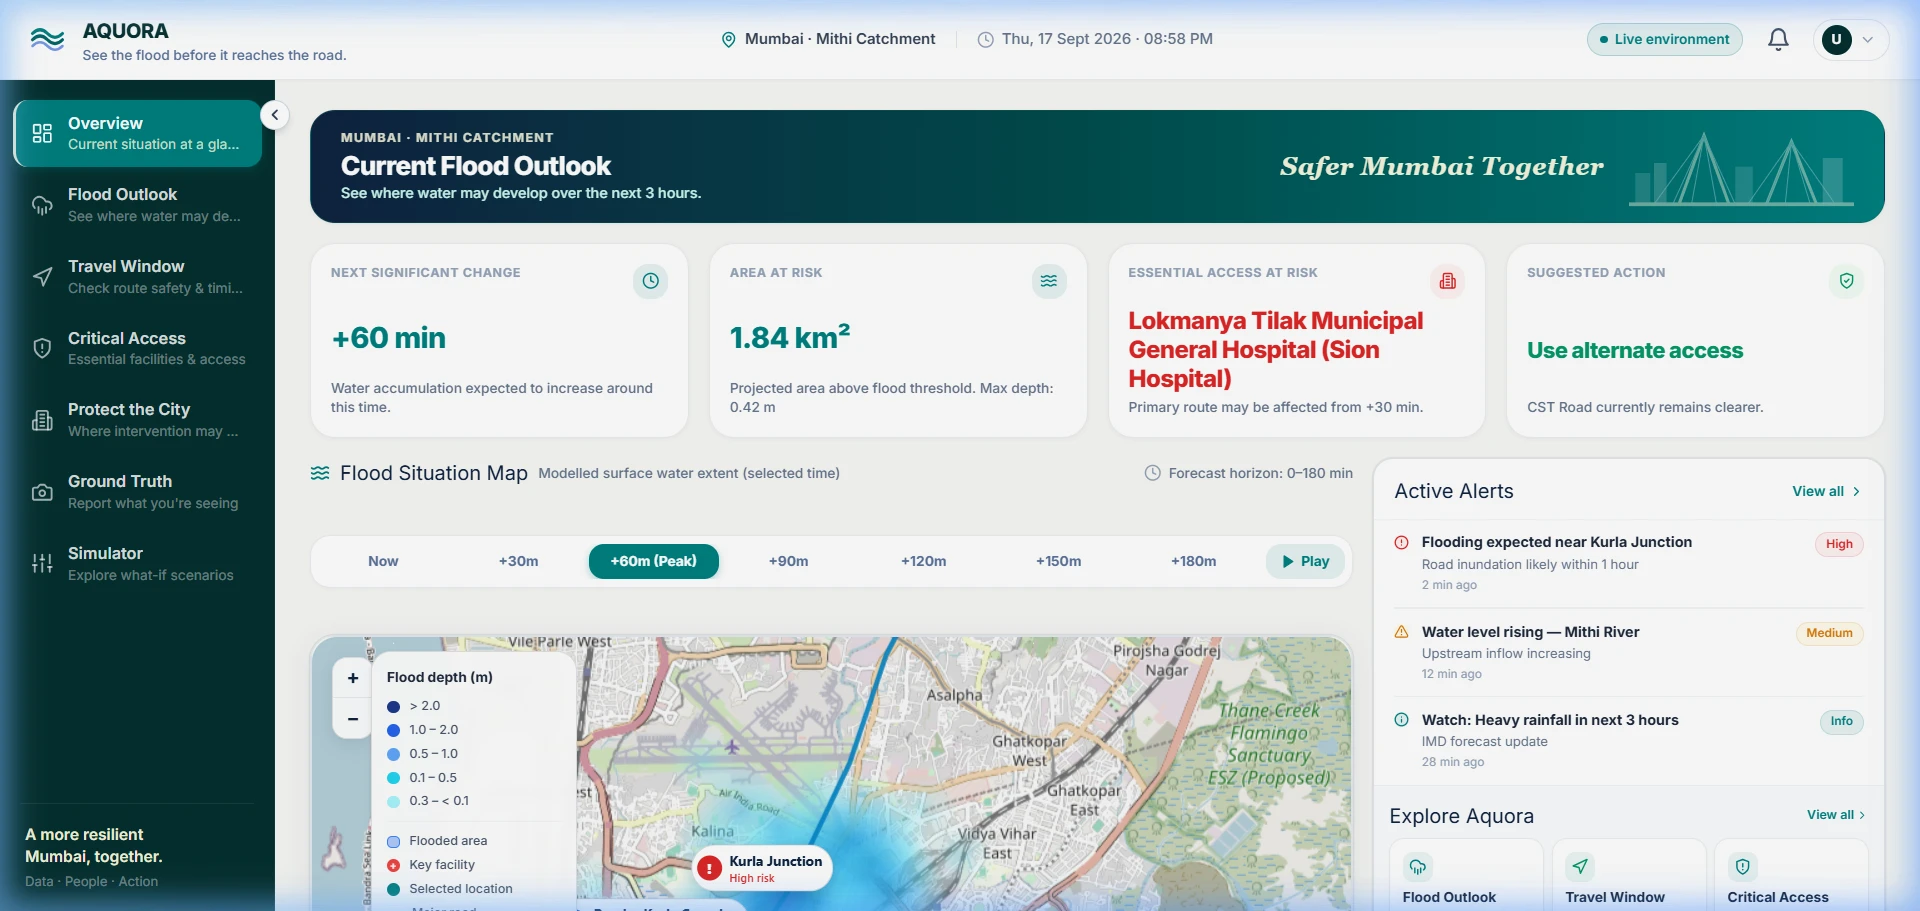
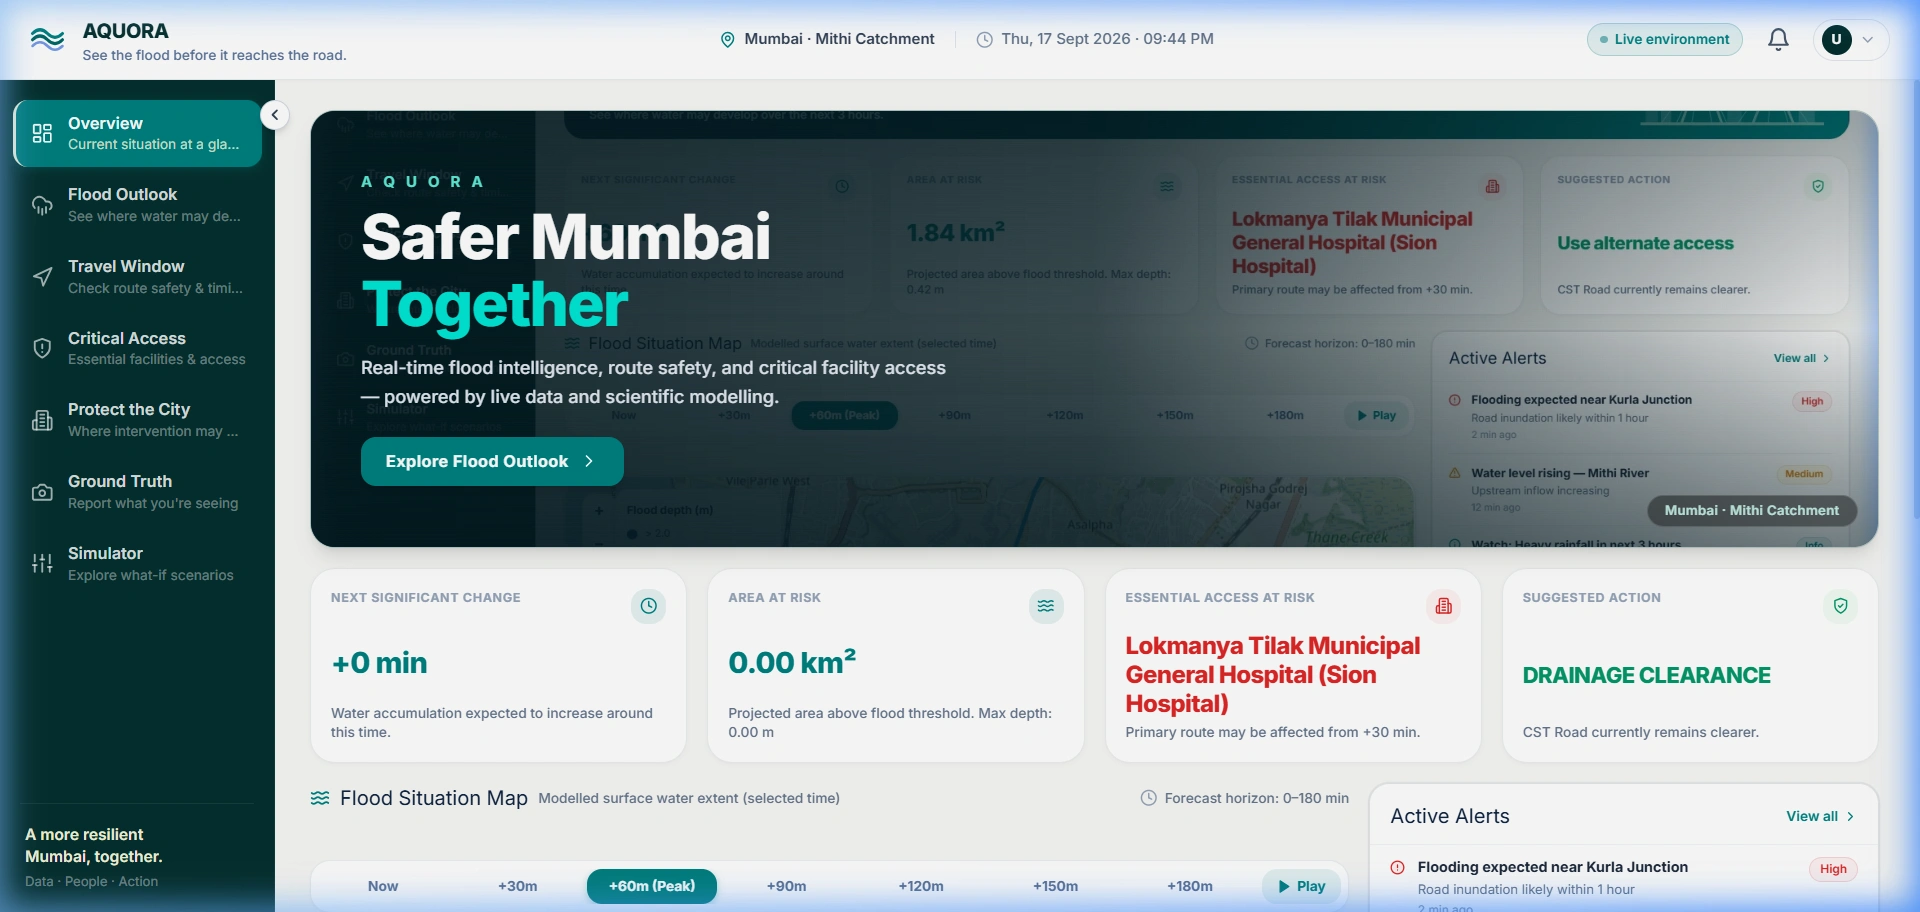
feat: update overview hero image asset

diff --git a/frontend/src/features/overview/index.tsx b/frontend/src/features/overview/index.tsx
@@ -42,8 +42,8 @@ const MumbaiSkylineHero: React.FC<MumbaiSkylineHeroProps> = ({ onExploreClick })
     />
 
     {/* 2. Dark Teal Gradient Overlay for WCAG-friendly text readability */}
-    <div className="absolute inset-0 bg-gradient-to-r from-[#031920] via-[#031920]/85 via-50% to-transparent opacity-95 sm:opacity-90" />
-    <div className="absolute inset-0 bg-gradient-to-b from-[#031920]/30 via-transparent to-[#031920]/50 pointer-events-none" />
+    <div className="absolute inset-0 bg-gradient-to-r from-[#031920]/85 via-[#031920]/60 via-45% to-transparent opacity-90 sm:opacity-85" />
+    <div className="absolute inset-0 bg-gradient-to-b from-[#031920]/20 via-transparent to-[#031920]/40 pointer-events-none" />
 
     {/* 3. Hero Content */}
     <div className="relative z-10 h-full max-w-[620px] flex flex-col justify-center px-6 sm:px-10 text-white">
